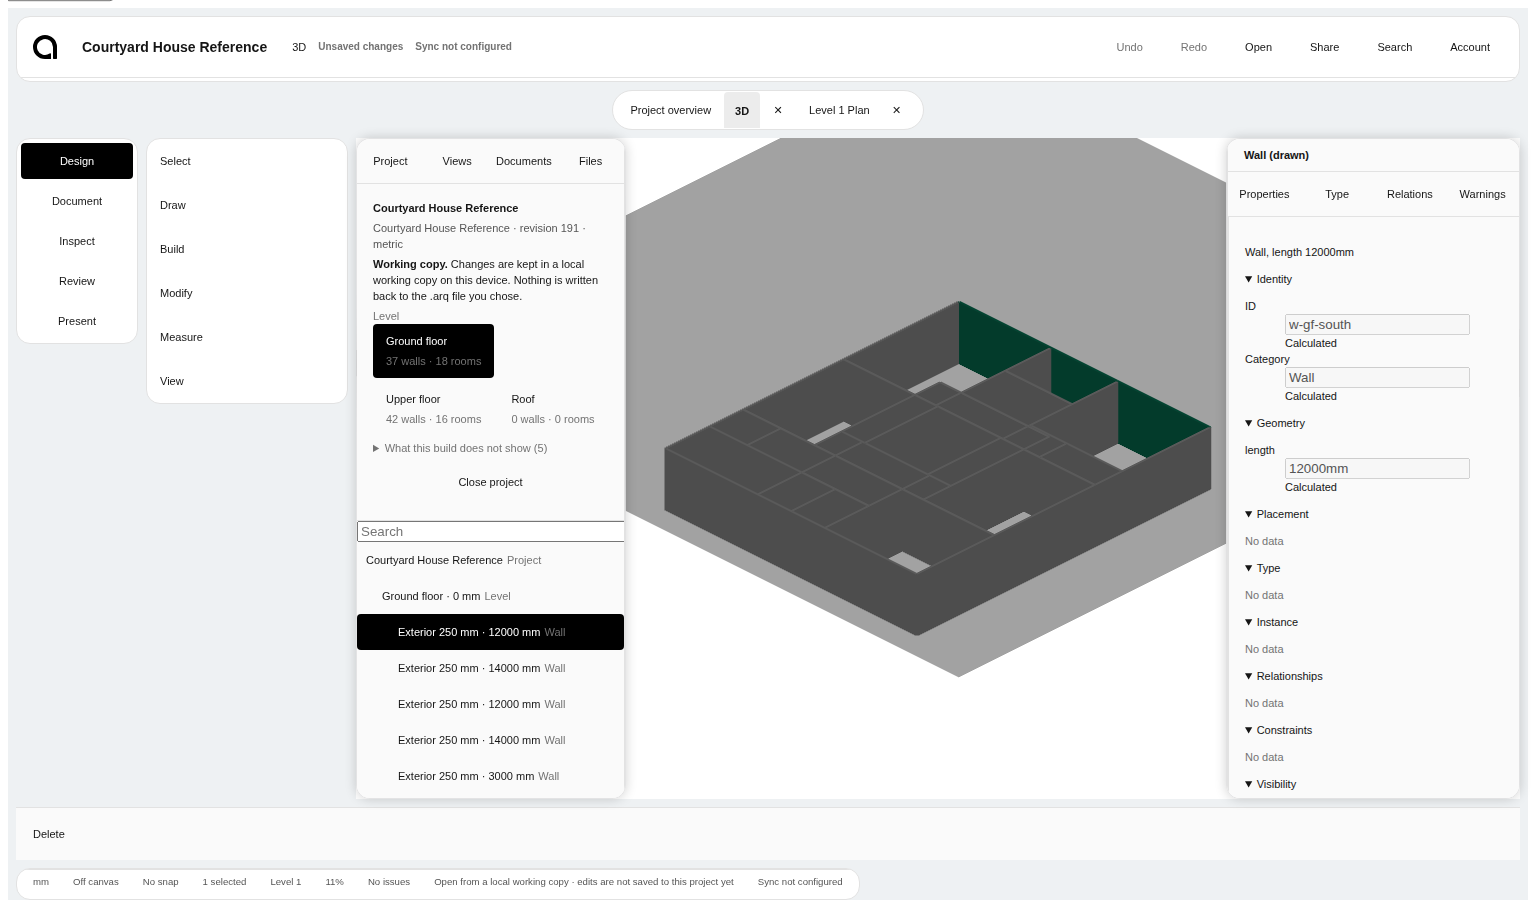
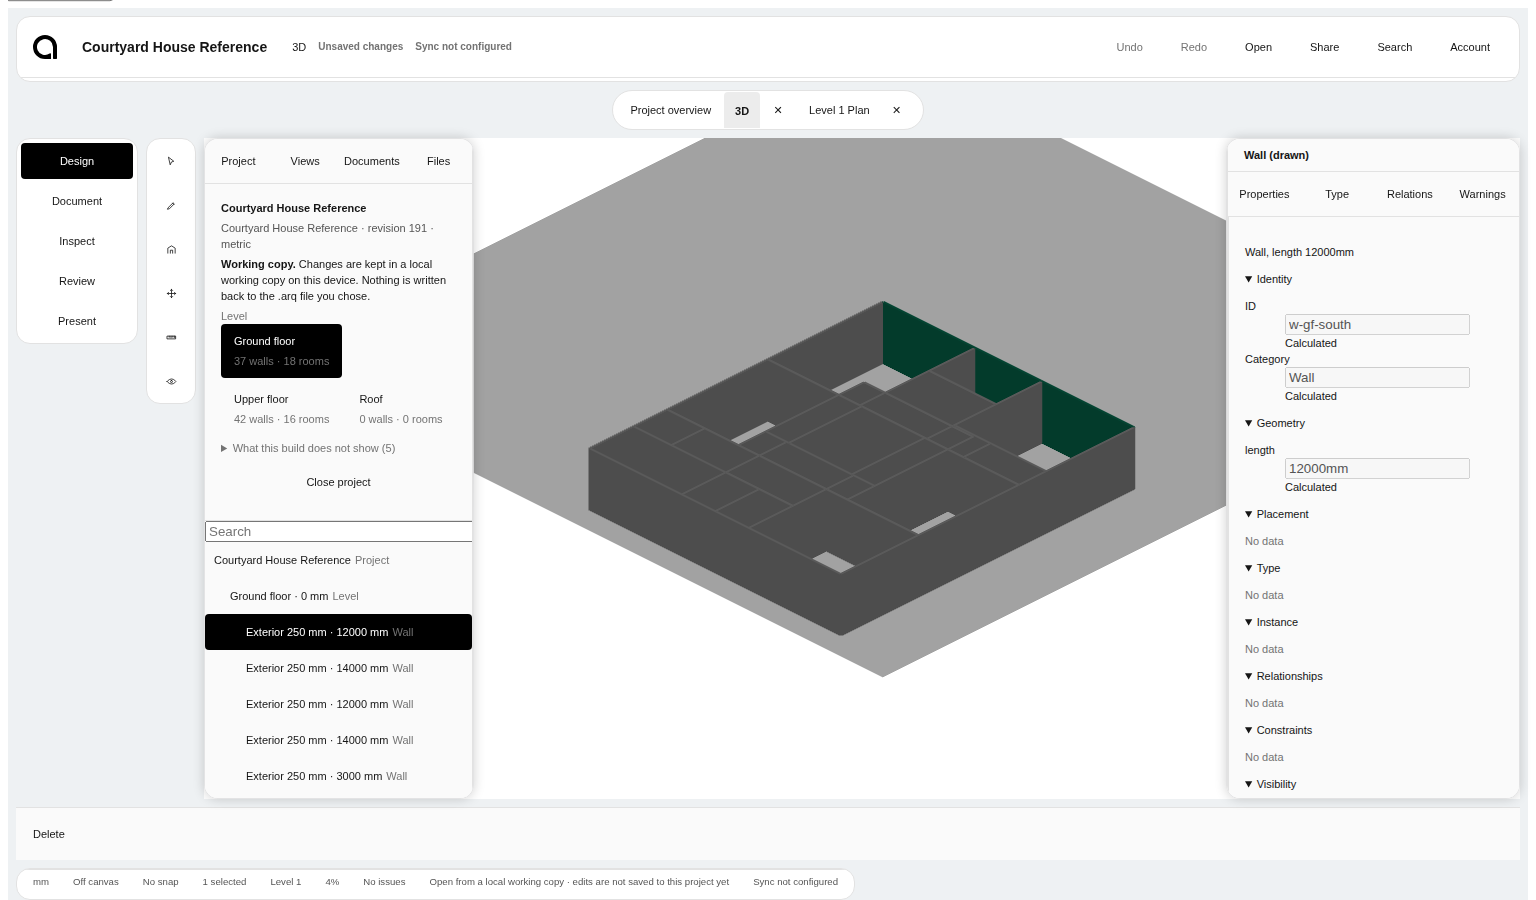
Draw an opened project's rooms, and frame it when it opens
Every screenshot I have taken until now was of an empty workspace. The
reference screens are of the Courtyard House golden fixture - which is already
in this repository, at fixtures/ - so I have been comparing a blank canvas
against a populated one and reporting the difference as chrome.

Opening it found three defects.

The plan drew a project's walls and none of its rooms. `roomsOnLevel` has been
in @arq/project-loading the whole time and nothing called it, so the golden
fixture's ground floor rendered 37 walls and none of its 18 rooms. Worse, with
no rooms passed, PlanCanvas fell back to the workspace's own demo fixture and
drew it on top - label and all - which its own contract forbids in as many
words: "a demo room drawn over someone's house would be a lie about their
model".

Room areas read "0.0 m2". `calculatedArea` is already square metres -
`recalculateRoomArea` stores the result of `roomAreaSquareMetres` - and
converting from square millimetres again collapsed every room to zero. The
labels now agree with the design package's own render room for room: Dining
9.2, Kitchen 16.3, Living 24.2, Guest bedroom 18.5, Open courtyard 10.5.

The view never framed the project. Adoption changed the content and left the
camera wherever the empty workspace had it, so the fixture opened at 16% with
most of the house outside the viewport - which reads as a broken renderer
rather than as a camera nobody asked to move. It now dispatches the fit
[…]

diff --git a/apps/web/src/App.tsx b/apps/web/src/App.tsx
@@ -100,9 +100,11 @@ import type { NativeProjectSession, NativeProjectSnapshot } from './project/nati
 import { NativeProjectPanel } from './NativeProjectPanel';
 import { buildNativeProjectTree, type OpenNativeProject } from './native-project-view';
 import {
+  roomsOnLevel,
   wallsOnLevel,
   type NativeProjectModel as NativeProjectDocument,
 } from '@arq/project-loading';
+import type { PlanRoom } from './canvas/canvas-interaction';
 
 /**
  * The walls of one level, in the shape the plan and 3D surfaces draw. The
@@ -115,6 +117,32 @@ function wallsForLevel(document: NativeProjectDocument, levelId: string): readon
     id: wall.id,
     start: wall.start,
     end: wall.end,
+  }));
+}
+
+/**
+ * The rooms of one level, in the shape the plan surface draws.
+ *
+ * Without this the plan drew a project's walls and none of its rooms - the
+ * golden fixture's ground floor is 37 walls and 18 rooms, and only the walls
+ * appeared - while the workspace's own demo room went on being drawn on top,
+ * label and all. PlanCanvas's own contract says an opened project passes its
+ * rooms and the fixture "is not rendered at all", because "a demo room drawn
+ * over someone's house would be a lie about their model". Nothing was passing
+ * them.
+ *
+ * Area comes from the model rather than being recomputed here: the room label
+ * has to agree with what the inspector and schedules say, and two independent
+ * area calculations is how they stop agreeing.
+ */
+function roomsForLevel(document: NativeProjectDocument, levelId: string): readonly PlanRoom[] {
+  return roomsOnLevel(document, levelId).map((room) => ({
+    id: room.id,
+    // `calculatedArea` is already square metres - `recalculateRoomArea` stores
+    // the result of `roomAreaSquareMetres`. Converting again here read every
+    // room in the golden fixture as "0.0 m2".
+    label: `${room.name} ${room.calculatedArea.toFixed(1)} m2`,
+    polygon: room.calculatedBoundary,
   }));
 }
 import { TOOL_GROUP_ICONS, TOOL_ICONS } from './tool-icons';
@@ -268,6 +296,12 @@ export function App(): JSX.Element {
   const [drawnWalls, setDrawnWalls] = useState<readonly DrawnWall[]>([]);
   const drawnWallsRef = useRef<readonly DrawnWall[]>([]);
   drawnWallsRef.current = drawnWalls;
+  /**
+   * The open project's rooms for the level on show, or null when no project is
+   * open. Null and empty mean different things to the plan surface: null asks
+   * for the workspace's own demo fixture, an empty list draws no rooms at all.
+   */
+  const [projectRooms, setProjectRooms] = useState<readonly PlanRoom[] | null>(null);
 
   /*
    * Real local persistence: the journal is opened once, recovery replays it
@@ -390,6 +424,11 @@ export function App(): JSX.Element {
           : opened.snapshot.walls;
       setDrawnWalls(shown);
       drawnWallsRef.current = shown;
+      setProjectRooms(
+        opened.snapshot.document !== null && initialLevelId !== null
+          ? roomsForLevel(opened.snapshot.document, initialLevelId)
+          : [],
+      );
       wallIdCounterRef.current = highestWallIdSuffix(shown);
       setProjectName(opened.snapshot.displayName);
       // Read from the working copy, not written to it yet: "opened" is not
@@ -682,6 +721,23 @@ export function App(): JSX.Element {
     },
     [handleActivateTool],
   );
+
+  /*
+   * Frame the project when one is adopted.
+   *
+   * Doc 09 requires that camera changes come from an explicit view command, and
+   * this is one: the fit tool, dispatched by id, the same command the rail and
+   * the palette send. Without it the drawing kept whatever view the empty
+   * workspace had - the golden fixture opened at 16% with most of the house
+   * outside the viewport, which reads as a broken renderer rather than as a
+   * camera that was never asked to move.
+   */
+  useEffect(() => {
+    if (openNativeProject === null) {
+      return;
+    }
+    handleActivateTool('fit');
+  }, [openNativeProject, handleActivateTool]);
 
   /*
    * `workspace-keyboard-map.json`'s rules, applied at the one place the app
@@ -983,6 +1039,7 @@ export function App(): JSX.Element {
       <PlanCanvas
         activeToolId={toolState.activeToolId}
         walls={drawnWalls}
+        {...(projectRooms === null ? {} : { rooms: projectRooms })}
         selection={modelSelection}
         onSelectElement={(elementId) =>
           setModelSelection({ primary: elementId, secondary: new Set() })
@@ -1163,6 +1220,7 @@ export function App(): JSX.Element {
                       const shown = wallsForLevel(openNativeProject.project.model, levelId);
                       setDrawnWalls(shown);
                       drawnWallsRef.current = shown;
+                      setProjectRooms(roomsForLevel(openNativeProject.project.model, levelId));
                       // The selection is a wall id, and a wall on another level
                       // is not on screen. Keeping it would leave the inspector
                       // describing something the reader cannot see.
@@ -1178,6 +1236,7 @@ export function App(): JSX.Element {
                       nativeSessionRef.current = null;
                       setOpenNativeProject(null);
                       setActiveNativeLevelId(null);
+                      setProjectRooms(null);
                       setActiveWorkingCopyId(null);
                       setDrawnWalls([]);
                       drawnWallsRef.current = [];
